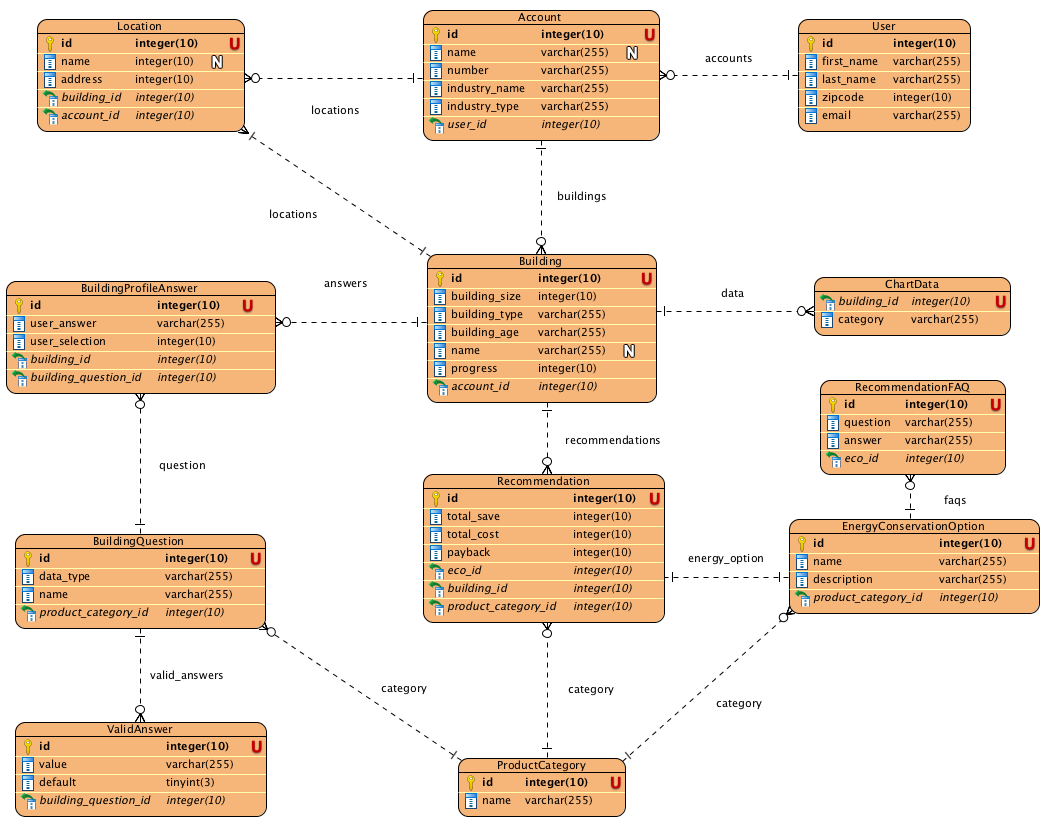
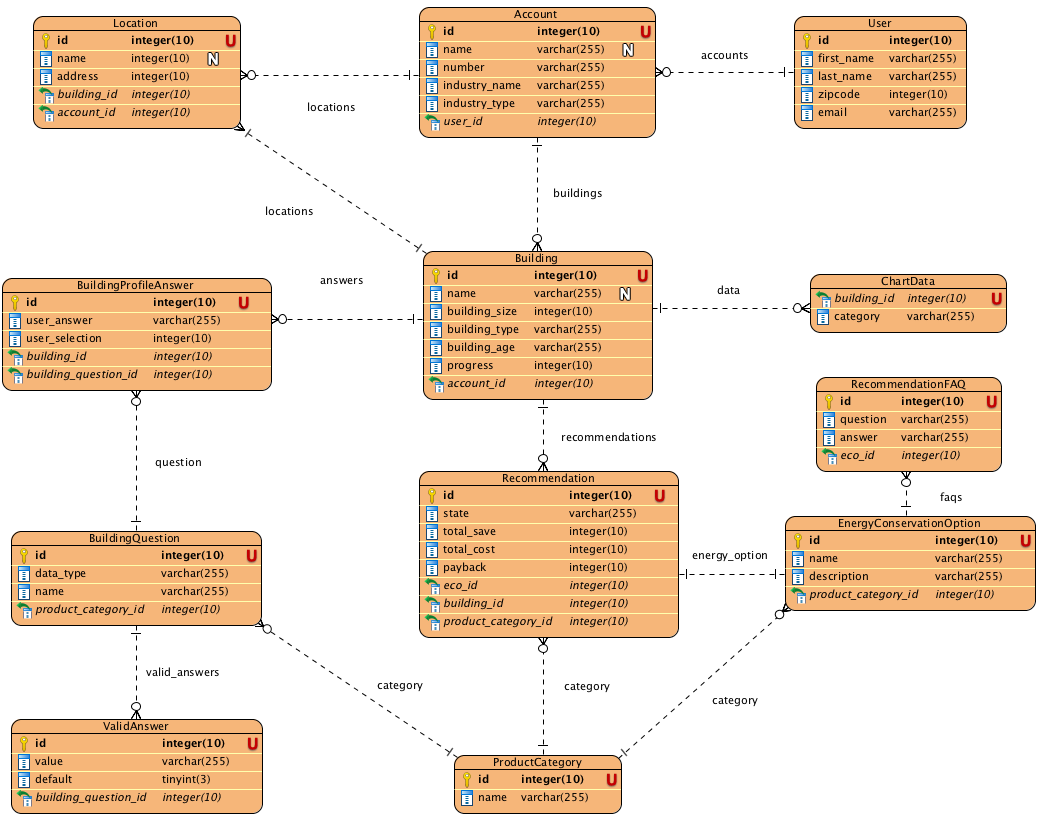
Corrections for c3 types.

diff --git a/bezel.tex b/bezel.tex
@@ -106,16 +106,16 @@ cuerpo de la petición POST, por lo que el único parámetro que se envía por m
 de la URL es el nombre la acción a realizar.
 
 \pagebreak
-\subsubsection{Tipos principales}
+\subsubsection{Tipos del servicio web C3}
 
-Del servicio web C3 se manejaron los siguientes tipos:
+Del servicio web C3 se manejaron los siguientes tipos (Ver Figura
+\ref{fig:c3-types}):
 \begin{itemize}
 \item \textquote{User}: este tipo representa un cliente de PG\&E, solamente
-  se necesita información básica como su nombre y apellido, código postal y
-  su correo electrónico (Ver Figura \ref{fig:c3-types} Building).
+  contiene información básica como el nombre, código postal y su correo electrónico.
 \item \textquote{Account}: este tipo representa uno o mas contratos de servicio,
   también contiene información sobre la industria a la que pertenece el negocio
-  del usuario (Ver Figura \ref{fig:c3-types} Account).
+  del usuario.
 \item \textquote{Building}: este tipo representa un edificio y contiene las
   características básicas de un edificio: tipo, tamaño y antigüedad.
 \item \textquote{Location}: este tipo representa una dirección de servicio,
@@ -124,26 +124,26 @@ Del servicio web C3 se manejaron los siguientes tipos:
   dadas por el usuario o sus valores por defecto para las características de un
   edificio, tiene siempre una pregunta asociada.
 \item \textquote{BuildingQuestion}: este tipo representa una pregunta asociada
-  a una característica de un edificio, puede tener una o varias respuestas validas
+  a una característica de un edificio, tiene una o varias respuestas validas
   asociadas.
 \item \textquote{ValidAnswer}: este tipo representa una respuesta valida asociada
   a una pregunta sobre una característica de un edificio, cabe recordar que
   la mayoría de las preguntas tiene un numero limitado de respuestas validas.
 \item \textquote{ProductCategory}: este tipo representa las categorías en las
-  que se clasifican las recomendaciones, preguntas y opciones de conservación.
-  Iluminación y calefacción son algunas de las categorías que se tienen
+  que se clasifican las recomendaciones, preguntas y opciones de conservación de
+  energía. Iluminación y calefacción son algunas de las categorías que se tienen
   definidas.
 \item \textquote{EnergyConservationOption}: este tipo representa una medida o
-  opción de conservación que se puede realizar en edificio para lograr disminuir
-  su consumo energético. En este tipo se tiene la informacion generica como el
-  nombre, descripcion y la informacion para realizar el calculo especifico de costo,
-  ahorro y recuperación de la inversión.
+  opción de conservación de energía que se puede implementar en un edificio para
+  lograr disminuir su consumo energético. En este tipo contiene la información
+  como el nombre y descripción que se despliega al usuario final y también
+  contiene la información sobre el costo, ahorro y recuperación de la inversión.
 \item \textquote{Recommendation}: este tipo representa la implementación de una
-  opción de conservación en relación a un único edificio, es decir, contiene la
-  información de costo, ahorro y recuperación de la inversión en base a las
-  características del edificio asociado.
+  opción de conservación en relación a un edificio, es decir, contiene la
+  información de costo, ahorro y recuperación de la inversión para un edificio
+  en particular en base a las características del edificio.
 \item \textquote{RecommendationFAQ}: este tipo contiene las preguntas frecuentes
-  y sus respuestas sobre la implementación y beneficios de una recomendación.
+  y sus respuestas en relación a la implementación de una recomendación.
 \item \textquote{ChartData}: este tipo representa toda la información de consumo
   obtenida de los medidores inteligentes instalados en las direcciones de servicio.
 \end{itemize}
